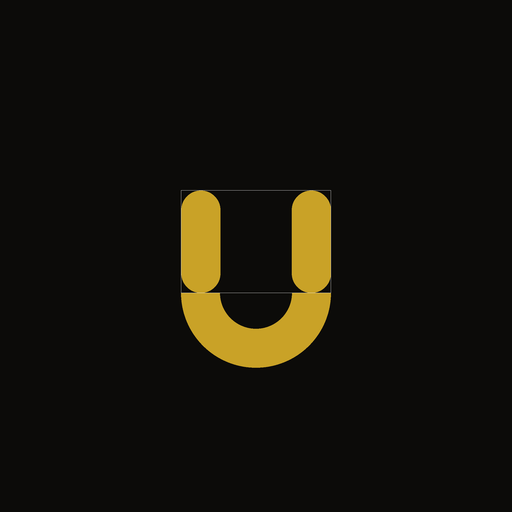
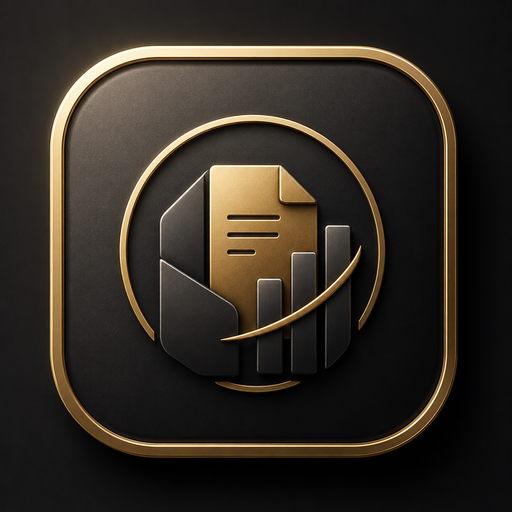
Add files via upload

diff --git a/netlify/functions/toast-sync.js b/netlify/functions/toast-sync.js
@@ -1,56 +1,65 @@
 // netlify/functions/toast-sync.js
-// Daily scheduled sync. Pulls yesterday's (and the day before, for catch-up)
-// orders from Toast for each store and writes:
-//   - daily_revenue per channel: cash, card, uber, grubhub, doordash (source 'toast')
-//   - card tips into the 'tips' expense category (source 'toast')
-// Manual edits are respected: a row whose source is 'manual' is never overwritten.
+// Hourly sync of Toast sales for each store (AD/BW/FH).
+//
+// Channel mapping (dining option takes priority, to avoid double counting):
+//   - Order dining option "Uber Eats*"  -> uber channel
+//   - Order dining option "DoorDash*"   -> doordash channel
+//   - Order dining option "Grubhub*"    -> grubhub channel
+//   - Any other order (Take Out, Online Ordering, Kiosk, dine in, etc.):
+//         payment type CASH   -> cash channel
+//         everything else     -> card channel
+//   Delivery orders are NOT added to card, even though they settle by card,
+//   so revenue is never counted twice.
+//
+// Amounts are TAX-INCLUSIVE (matches the Excel closing board). Sales tax is
+// handled as an automatic expense rule in the app, not deducted here.
+// Tips are excluded from revenue and booked into the 'tips' expense category.
+//
+// Business date handling: we pull each store's own business date. "Today" is
+// still in progress, so by default we sync the last 2 completed business days
+// (yesterday and the day before) for catch-up, plus today's in-progress figure
+// flagged so the app can show it as provisional.
 //
 // Env vars:
 //   SUPABASE_URL, SUPABASE_SERVICE_KEY
 //   TOAST_CLIENT_ID, TOAST_CLIENT_SECRET
 //   TOAST_API_HOST         (default https://ws-api.toasttab.com)
-//   TOAST_RESTAURANTS      "AD:restaurant-guid,BW:restaurant-guid,FH:restaurant-guid"
+//   TOAST_RESTAURANTS      "AD:guid,BW:guid,FH:guid"
 
 const { createClient } = require('@supabase/supabase-js');
 
 const HOST = process.env.TOAST_API_HOST || 'https://ws-api.toasttab.com';
 const pad = n => String(n).padStart(2, '0');
 
-function classifyOther(order, payment) {
-  const bits = [];
-  if (order.diningOption && order.diningOption.name) bits.push(order.diningOption.name);
-  if (payment.otherPayment && payment.otherPayment.name) bits.push(payment.otherPayment.name);
-  if (order.source) bits.push(order.source);
-  const s = bits.join(' ').toLowerCase();
-  if (s.includes('uber')) return 'uber';
-  if (s.includes('door')) return 'doordash';
-  if (s.includes('grub')) return 'grubhub';
-  return 'card'; // unknown third-party: fold into card, tune after first live run
-}
-
-async function toastLogin() {
+async function login() {
   const res = await fetch(`${HOST}/authentication/v1/authentication/login`, {
-    method: 'POST',
-    headers: { 'Content-Type': 'application/json' },
+    method: 'POST', headers: { 'Content-Type': 'application/json' },
     body: JSON.stringify({
       clientId: process.env.TOAST_CLIENT_ID,
       clientSecret: process.env.TOAST_CLIENT_SECRET,
       userAccessType: 'TOAST_MACHINE_CLIENT',
     }),
   });
-  if (!res.ok) throw new Error('Toast login failed: ' + res.status);
-  const j = await res.json();
-  return j.token.accessToken;
+  if (!res.ok) throw new Error('Toast login ' + res.status);
+  return (await res.json()).token.accessToken;
+}
+
+async function diningNameMap(token, guid) {
+  const map = {};
+  try {
+    const res = await fetch(`${HOST}/config/v2/diningOptions`,
+      { headers: { Authorization: 'Bearer ' + token, 'Toast-Restaurant-External-ID': guid } });
+    if (res.ok) (await res.json() || []).forEach(d => { if (d.guid) map[d.guid] = (d.name || '').toLowerCase(); });
+  } catch (e) {}
+  return map;
 }
 
 async function fetchOrders(token, guid, businessDate) {
-  const orders = [];
-  let page = 1;
-  while (page < 40) {
-    const res = await fetch(
-      `${HOST}/orders/v2/ordersBulk?businessDate=${businessDate}&pageSize=100&page=${page}`,
+  let orders = [], page = 1;
+  while (page < 100) {
+    const res = await fetch(`${HOST}/orders/v2/ordersBulk?businessDate=${businessDate}&pageSize=100&page=${page}`,
       { headers: { Authorization: 'Bearer ' + token, 'Toast-Restaurant-External-ID': guid } });
-    if (!res.ok) throw new Error(`orders ${businessDate} failed: ${res.status}`);
+    if (!res.ok) throw new Error(`orders ${businessDate} ${res.status}`);
     const batch = await res.json();
     orders.push(...batch);
     if (batch.length < 100) break;
@@ -59,87 +68,122 @@ async function fetchOrders(token, guid, businessDate) {
   return orders;
 }
 
-function summarize(orders) {
+// classify a single order into a channel code
+function channelFor(order, diningNames) {
+  let doName = '';
+  if (order.diningOption) {
+    doName = order.diningOption.name || diningNames[order.diningOption.guid] || '';
+  }
+  doName = doName.toLowerCase();
+  if (doName.includes('uber')) return { delivery: 'uber' };
+  if (doName.includes('doordash') || doName.includes('door dash')) return { delivery: 'doordash' };
+  if (doName.includes('grubhub') || doName.includes('grub hub')) return { delivery: 'grubhub' };
+  return { delivery: null }; // in-store: decide by payment type
+}
+
+function summarize(orders, diningNames) {
   const sums = { cash: 0, card: 0, uber: 0, grubhub: 0, doordash: 0 };
   let tips = 0;
   for (const o of orders) {
     if (o.voided) continue;
+    const { delivery } = channelFor(o, diningNames);
     for (const chk of o.checks || []) {
       if (chk.voided || chk.deleted) continue;
       for (const p of chk.payments || []) {
-        if (p.paymentStatus === 'VOIDED' || p.refundStatus === 'FULL') continue;
-        const amt = Number(p.amount || 0);
-        tips += Number(p.tipAmount || 0);
-        if (p.type === 'CASH') sums.cash += amt;
-        else if (p.type === 'CREDIT') sums.card += amt;
-        else sums[classifyOther(o, p)] += amt;
+        if (p.paymentStatus === 'VOIDED') continue;
+        const amt = Number(p.amount || 0);          // tax-inclusive
+        const tip = Number(p.tipAmount || 0);
+        tips += tip;
+        const net = amt - tip;                       // exclude tip from revenue
+        if (delivery) { sums[delivery] += net; continue; }
+        if (p.type === 'CASH') sums.cash += net;
+        else sums.card += net;                       // CREDIT + OTHER(online) -> card
       }
     }
   }
-  Object.keys(sums).forEach(k => sums[k] = +sums[k].toFixed(2));
+  for (const k in sums) sums[k] = +sums[k].toFixed(2);
   return { sums, tips: +tips.toFixed(2) };
+}
+
+// business date string YYYYMMDD for N days ago in a fixed offset (store local ~ ET)
+function bizDates() {
+  // Use ET (UTC-4/5). Toast business day rolls at ~4am local. We sync the last
+  // 2 completed days plus today (provisional).
+  const now = new Date();
+  const et = new Date(now.getTime() - 4 * 3600 * 1000); // approx ET
+  const list = [];
+  for (let back = 0; back <= 2; back++) {
+    const d = new Date(et); d.setDate(d.getDate() - back);
+    list.push({
+      ymd: `${d.getFullYear()}${pad(d.getMonth() + 1)}${pad(d.getDate())}`,
+      iso: `${d.getFullYear()}-${pad(d.getMonth() + 1)}-${pad(d.getDate())}`,
+      provisional: back === 0,
+    });
+  }
+  return list;
 }
 
 exports.handler = async () => {
   const admin = createClient(process.env.SUPABASE_URL, process.env.SUPABASE_SERVICE_KEY,
     { auth: { persistSession: false } });
 
-  const mapping = (process.env.TOAST_RESTAURANTS || '')
-    .split(',').map(s => s.trim()).filter(Boolean)
-    .map(s => { const [code, guid] = s.split(':'); return { code, guid }; });
-  if (!mapping.length)
-    return { statusCode: 200, body: JSON.stringify({ ok: false, error: 'TOAST_RESTAURANTS not configured' }) };
+  const map = {};
+  (process.env.TOAST_RESTAURANTS || '').split(',').map(s => s.trim()).filter(Boolean)
+    .forEach(p => { const [c, g] = p.split(':'); map[c] = g; });
 
-  // yesterday and the day before (catch-up / late adjustments)
-  const dates = [1, 2].map(back => {
-    const d = new Date(); d.setDate(d.getDate() - back);
-    return { iso: `${d.getFullYear()}-${pad(d.getMonth() + 1)}-${pad(d.getDate())}`,
-             biz: `${d.getFullYear()}${pad(d.getMonth() + 1)}${pad(d.getDate())}` };
-  });
+  let token;
+  try { token = await login(); }
+  catch (e) { return { statusCode: 500, body: JSON.stringify({ error: e.message }) }; }
 
-  const token = await toastLogin();
   const log = [];
-
-  for (const { code, guid } of mapping) {
+  for (const [code, guid] of Object.entries(map)) {
     const { data: corp } = await admin.from('corporations').select('id').eq('code', code).maybeSingle();
-    if (!corp) { log.push(code + ': corporation not found'); continue; }
+    if (!corp) { log.push(`${code}: no corp`); continue; }
+    const { data: chs } = await admin.from('revenue_channels').select('id,code').eq('corporation_id', corp.id);
+    const chId = {}; (chs || []).forEach(c => chId[c.code] = c.id);
+    const { data: tipCat } = await admin.from('expense_categories').select('id')
+      .eq('corporation_id', corp.id).eq('code', 'tips').maybeSingle();
 
-    const { data: channels } = await admin.from('revenue_channels')
-      .select('id,code').eq('corporation_id', corp.id);
-    const chId = {}; (channels || []).forEach(c => chId[c.code] = c.id);
+    let dn = {};
+    try { dn = await diningNameMap(token, guid); } catch (e) {}
 
-    const { data: tipsCat } = await admin.from('expense_categories')
-      .select('id').eq('corporation_id', corp.id).eq('code', 'tips').maybeSingle();
+    for (const d of bizDates()) {
+      let orders;
+      try { orders = await fetchOrders(token, guid, d.ymd); }
+      catch (e) { log.push(`${code} ${d.ymd}: ${e.message}`); continue; }
+      const { sums, tips } = summarize(orders, dn);
 
-    for (const d of dates) {
-      let summary;
-      try { summary = summarize(await fetchOrders(token, guid, d.biz)); }
-      catch (e) { log.push(`${code} ${d.iso}: ${e.message}`); continue; }
-
-      // revenue rows: skip channels where a manual override exists
-      for (const [ch, amount] of Object.entries(summary.sums)) {
-        if (!chId[ch]) continue;
-        const { data: existing } = await admin.from('daily_revenue').select('id,source')
-          .eq('corporation_id', corp.id).eq('channel_id', chId[ch]).eq('date', d.iso).maybeSingle();
-        if (existing && existing.source === 'manual') continue;
+      // upsert each channel (skip 'manual' rows). Provisional (today) rows are
+      // marked source 'toast_live' so the app can show them as in progress.
+      const src = d.provisional ? 'toast_live' : 'toast';
+      for (const chCode of ['cash', 'card', 'uber', 'grubhub', 'doordash']) {
+        if (!chId[chCode]) continue;
+        const amount = sums[chCode] || 0;
+        const { data: ex } = await admin.from('daily_revenue').select('id,source')
+          .eq('corporation_id', corp.id).eq('channel_id', chId[chCode]).eq('date', d.iso).maybeSingle();
+        if (ex && ex.source === 'manual') continue;
+        if (!ex && amount === 0) continue;
         await admin.from('daily_revenue').upsert({
-          corporation_id: corp.id, channel_id: chId[ch], date: d.iso,
-          amount, source: 'toast', updated_at: new Date().toISOString(),
+          corporation_id: corp.id, channel_id: chId[chCode], date: d.iso,
+          amount, source: src, updated_at: new Date().toISOString(),
         }, { onConflict: 'corporation_id,channel_id,date' });
       }
 
-      // tips as an expense (one synced row per day)
-      if (tipsCat) {
-        const { data: exTip } = await admin.from('expenses').select('id')
-          .eq('corporation_id', corp.id).eq('category_id', tipsCat.id)
-          .eq('date', d.iso).eq('source', 'toast').maybeSingle();
-        if (exTip) await admin.from('expenses').update({ amount: summary.tips }).eq('id', exTip.id);
-        else if (summary.tips > 0) await admin.from('expenses').insert({
-          corporation_id: corp.id, category_id: tipsCat.id, date: d.iso,
-          amount: summary.tips, memo: 'Card tips (Toast)', source: 'toast',
-        });
+      // tips -> expense (only for completed days, not the live provisional one,
+      // to avoid churn; the final sync of that day books tips)
+      if (tipCat && !d.provisional) {
+        const { data: ex } = await admin.from('expenses').select('id,source')
+          .eq('corporation_id', corp.id).eq('category_id', tipCat.id).eq('date', d.iso)
+          .eq('source', 'toast').maybeSingle();
+        if (ex) { await admin.from('expenses').update({ amount: tips }).eq('id', ex.id); }
+        else if (tips > 0) {
+          await admin.from('expenses').insert({
+            corporation_id: corp.id, category_id: tipCat.id, date: d.iso,
+            amount: tips, memo: 'Card tips (Toast)', source: 'toast',
+          });
+        }
       }
-      log.push(`${code} ${d.iso}: ok (tips ${summary.tips})`);
+      log.push(`${code} ${d.iso}${d.provisional ? ' (live)' : ''}: cash ${sums.cash} card ${sums.card} uber ${sums.uber} gh ${sums.grubhub} dd ${sums.doordash} tips ${tips}`);
     }
   }
   return { statusCode: 200, body: JSON.stringify({ ok: true, log }) };

diff --git a/netlify/functions/daily-sales-report.js b/netlify/functions/daily-sales-report.js
@@ -1,0 +1,83 @@
+// netlify/functions/daily-sales-report.js
+// Posts a "DAILY SALES PER STORE" message to the Slack #financial channel every
+// morning, replacing the manual report. Groups stores into Corporate vs
+// Franchisee automatically from corporations.corp_type, so new franchisees are
+// included without code changes.
+//
+// Scheduled daily (see netlify.toml). Reports the previous completed business day.
+//
+// Env vars:
+//   SUPABASE_URL, SUPABASE_SERVICE_KEY
+//   SLACK_BOT_TOKEN
+//   FINANCIAL_CHANNEL_ID   (e.g. C067CD6N3N0)
+
+const { createClient } = require('@supabase/supabase-js');
+const pad = n => String(n).padStart(2, '0');
+
+function fmtMoney(n) {
+  return '$ ' + Number(n || 0).toLocaleString('en-US', { minimumFractionDigits: 2, maximumFractionDigits: 2 });
+}
+
+exports.handler = async () => {
+  const admin = createClient(process.env.SUPABASE_URL, process.env.SUPABASE_SERVICE_KEY,
+    { auth: { persistSession: false } });
+
+  // previous day (ET-ish). Business day is the day that just closed.
+  const now = new Date();
+  const et = new Date(now.getTime() - 4 * 3600 * 1000);
+  et.setDate(et.getDate() - 1);
+  const iso = `${et.getFullYear()}-${pad(et.getMonth() + 1)}-${pad(et.getDate())}`;
+  const label = `${et.getMonth() + 1}/${pad(et.getDate())}/${et.getFullYear()}`;
+
+  // corporations that have store sales (corporate + franchisee); skip HQ / UMMA
+  const { data: corps } = await admin.from('corporations')
+    .select('id,code,name,corp_type,display_order').order('display_order');
+  const storeCorps = (corps || []).filter(c => c.corp_type === 'corporate' || c.corp_type === 'franchisee'
+    || (c.corp_type == null && !['HQ', 'UMMA'].includes(c.code)));
+  if (!storeCorps.length) return { statusCode: 200, body: 'no store corps' };
+
+  const ids = storeCorps.map(c => c.id);
+  // channels that count toward total
+  const { data: channels } = await admin.from('revenue_channels')
+    .select('id,corporation_id,counts_in_total,total_multiplier').in('corporation_id', ids);
+  const chBy = {}; (channels || []).forEach(c => chBy[c.id] = c);
+  // yesterday's revenue for those corps
+  const { data: revs } = await admin.from('daily_revenue')
+    .select('corporation_id,channel_id,amount').in('corporation_id', ids).eq('date', iso);
+
+  const totalByCorp = {};
+  storeCorps.forEach(c => totalByCorp[c.id] = 0);
+  (revs || []).forEach(r => {
+    const ch = chBy[r.channel_id]; if (!ch || !ch.counts_in_total) return;
+    totalByCorp[r.corporation_id] += Number(r.amount) * Number(ch.total_multiplier || 1);
+  });
+
+  const corporate = storeCorps.filter(c => c.corp_type === 'corporate' || c.corp_type == null);
+  const franchise = storeCorps.filter(c => c.corp_type === 'franchisee');
+
+  // pretty store label: use name without the "Ugly XX (" wrapper if present
+  const nameOf = c => {
+    const m = c.name.match(/\(([^)]+)\)/);
+    return m ? m[1] : c.name.replace(/^Ugly\s+\w+\s*/, '') || c.name;
+  };
+
+  let text = `*DAILY SALES PER STORE ${label}*\n\n`;
+  if (corporate.length) {
+    text += `:white_check_mark: Corporate stores:\n`;
+    corporate.forEach(c => { text += `${nameOf(c)}: ${fmtMoney(totalByCorp[c.id])}\n`; });
+    text += `\n`;
+  }
+  if (franchise.length) {
+    text += `:white_check_mark: Franchisee stores:\n`;
+    franchise.forEach(c => { text += `${nameOf(c)}: ${fmtMoney(totalByCorp[c.id])}\n`; });
+  }
+
+  const res = await fetch('https://slack.com/api/chat.postMessage', {
+    method: 'POST',
+    headers: { 'Content-Type': 'application/json; charset=utf-8', Authorization: 'Bearer ' + process.env.SLACK_BOT_TOKEN },
+    body: JSON.stringify({ channel: process.env.FINANCIAL_CHANNEL_ID, text, mrkdwn: true }),
+  });
+  const out = await res.json();
+  if (!out.ok) return { statusCode: 500, body: JSON.stringify({ error: out.error, date: iso }) };
+  return { statusCode: 200, body: JSON.stringify({ ok: true, date: iso, corporate: corporate.length, franchise: franchise.length }) };
+};

diff --git a/index.html b/index.html
@@ -706,8 +706,13 @@ function Entry({corps, canEditIds, profile, presetCorp}){
           {(meta?meta.channels.filter(c=>c.active):[]).map(c=>{
             const row = dayRev[c.id];
             const auto = row && row.source!=='manual' && row.source!=='import';
+            const badgeLabel = row ? (
+              row.source==='toast_live' ? 'Toast · live' :
+              row.source==='toast' ? 'Toast' :
+              row.source==='inventory' ? 'Inventory' :
+              row.source==='quickbooks' ? 'QuickBooks' : row.source) : '';
             return <tr key={c.id}>
-              <td>{c.name} {auto && <span className="badge green">{row.source}</span>}
+              <td>{c.name} {auto && <span className={'badge '+(row.source==='toast_live'?'gold':'green')}>{badgeLabel}</span>}
                 {row && row.verified && <span className="badge gold">Verified</span>}</td>
               <td className="num" style={{width:150}}>
                 <input type="number" step="0.01" defaultValue={row?Number(row.amount):''} placeholder="0.00"

diff --git a/README.md b/README.md
@@ -1,1 +1,9 @@
 # Ugly Finance Tool
+
+New:
+- App icon updated (gold mark).
+- daily-sales-report.js posts "DAILY SALES PER STORE" to #financial each morning,
+  grouping Corporate vs Franchisee automatically from corporations.corp_type.
+  New franchisees are included with no code change (set corp_type='franchisee').
+
+Env vars added: FINANCIAL_CHANNEL_ID (C067CD6N3N0), SLACK_BOT_TOKEN (existing).